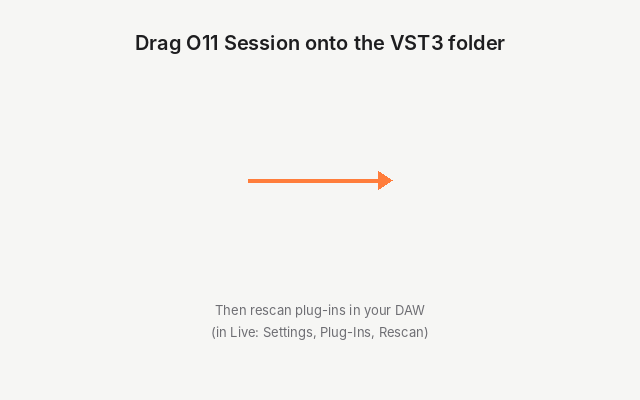
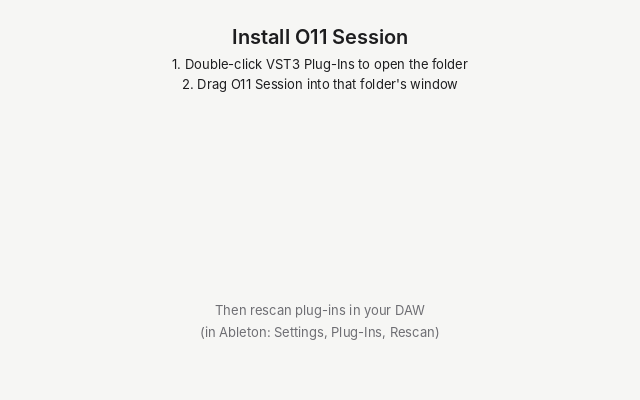
Mac disk image: open the VST3 folder, then drag the plug-in in
Finder won't drop O11Session.vst3 onto the shortcut to
/Library/Audio/Plug-Ins/VST3, so the arrow between them led nowhere. The
background now has no arrow and says: double-click VST3 Plug-Ins to open
the folder, then drag O11 Session into that folder's window. The rescan
hint names Ableton, not Live. The README's install step says the same.

Claude-Session: https://claude.ai/code/session_016QY9iFjFw7KZJMcXfMCE3A

Changed region(s): [[0.1875, 0.06, 0.7812, 0.24], [0.3125, 0.81, 0.6875, 0.87], [0.375, 0.42, 0.625, 0.48]]

diff --git a/plugin/packaging/make_dmg_background.py b/plugin/packaging/make_dmg_background.py
@@ -2,8 +2,9 @@
 """Draws the background of O11 Session's Mac disk image, at 1x and 2x.
 
 The window is 640 x 400 points. Finder draws the two icons on top, centred at the points
-dmg_settings.py gives (O11Session.vst3 at 170,180 and the VST3 folder at 470,180), so this
-draws an arrow between them and the next step under them. The plug-in in the image is
+dmg_settings.py gives (O11Session.vst3 at 170,180 and the VST3 folder at 470,180). Finder
+won't drop a bundle on a shortcut to a system folder, so there is no arrow: the text says to
+open the folder first and drag the plug-in into its window. The plug-in in the image is
 signed with a Developer ID and notarized, so there is no Terminal step.
 
   python3 make_dmg_background.py SANS.otf SANS-SEMIBOLD.otf OUT_DIR
@@ -21,7 +22,6 @@ LEFT, RIGHT, ICONS_Y = 170, 470, 180
 BACKGROUND = (246, 246, 244)
 TEXT = (29, 29, 31)
 DIM = (110, 110, 115)
-ORANGE = (255, 125, 59)
 
 
 def draw(scale, sans, semibold):
@@ -34,16 +34,13 @@ def draw(scale, sans, semibold):
     def centred(y, text, font, fill):
         d.text((s(W / 2), s(y)), text, font=font, fill=fill, anchor="mm")
 
-    centred(42, "Drag O11 Session onto the VST3 folder", title, TEXT)
-
-    # the arrow, between where the two icons end
-    x0, x1, y, head = LEFT + 78, RIGHT - 78, ICONS_Y, 12
-    d.line((s(x0), s(y), s(x1 - head), s(y)), fill=ORANGE, width=s(4))
-    d.polygon([(s(x1), s(y)), (s(x1 - head - 2), s(y - 9)), (s(x1 - head - 2), s(y + 9))], fill=ORANGE)
+    centred(36, "Install O11 Session", title, TEXT)
+    centred(64, "1. Double-click VST3 Plug-Ins to open the folder", body, TEXT)
+    centred(84, "2. Drag O11 Session into that folder's window", body, TEXT)
 
     # the step after it, in the bottom third (Finder's labels end near y = 255)
     centred(310, "Then rescan plug-ins in your DAW", body, DIM)
-    centred(332, "(in Live: Settings, Plug-Ins, Rescan)", body, DIM)
+    centred(332, "(in Ableton: Settings, Plug-Ins, Rescan)", body, DIM)
     return image
 
 

diff --git a/plugin/packaging/dmg_settings.py b/plugin/packaging/dmg_settings.py
@@ -1,5 +1,5 @@
 # dmgbuild settings for O11 Session's Mac disk image: the plug-in, a shortcut to the VST3 folder to
-# drag it onto, and a background that says so (make_dmg_background.py draws it).
+# open, and a background that says to open it and drag the plug-in in (make_dmg_background.py draws it).
 #
 #   dmgbuild -s dmg_settings.py -D bundle=path/to/O11Session.vst3 -D background=dmg-background.png "O11 Session" out.dmg
 #

diff --git a/README.md b/README.md
@@ -46,8 +46,8 @@ Reaper, Studio One, Cubase and any other VST3 host.
 
 ## Quick start
 
-1. **Install.** On macOS, open the disk image and drag O11 Session onto the
-   VST3 folder (it is signed and notarized by Apple). On Windows, copy
+1. **Install.** On macOS, open the disk image, double-click the VST3
+   folder in it, and drag O11 Session into that folder's window (it is signed and notarized by Apple). On Windows, copy
    `O11Session.vst3` into `C:\Program Files\Common Files\VST3`. On Linux, copy
    it into `~/.vst3`. Then rescan plug-ins in your DAW.
 2. **Start a room.** Put O11 Session on a track and press Host. It opens the
